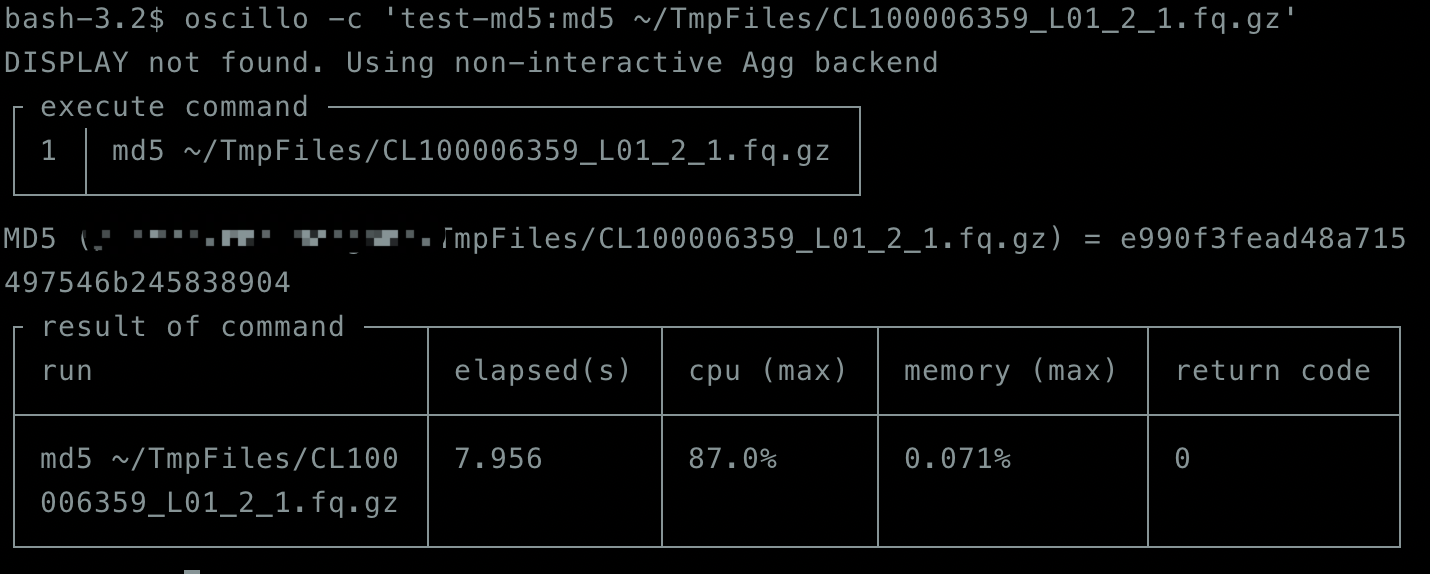
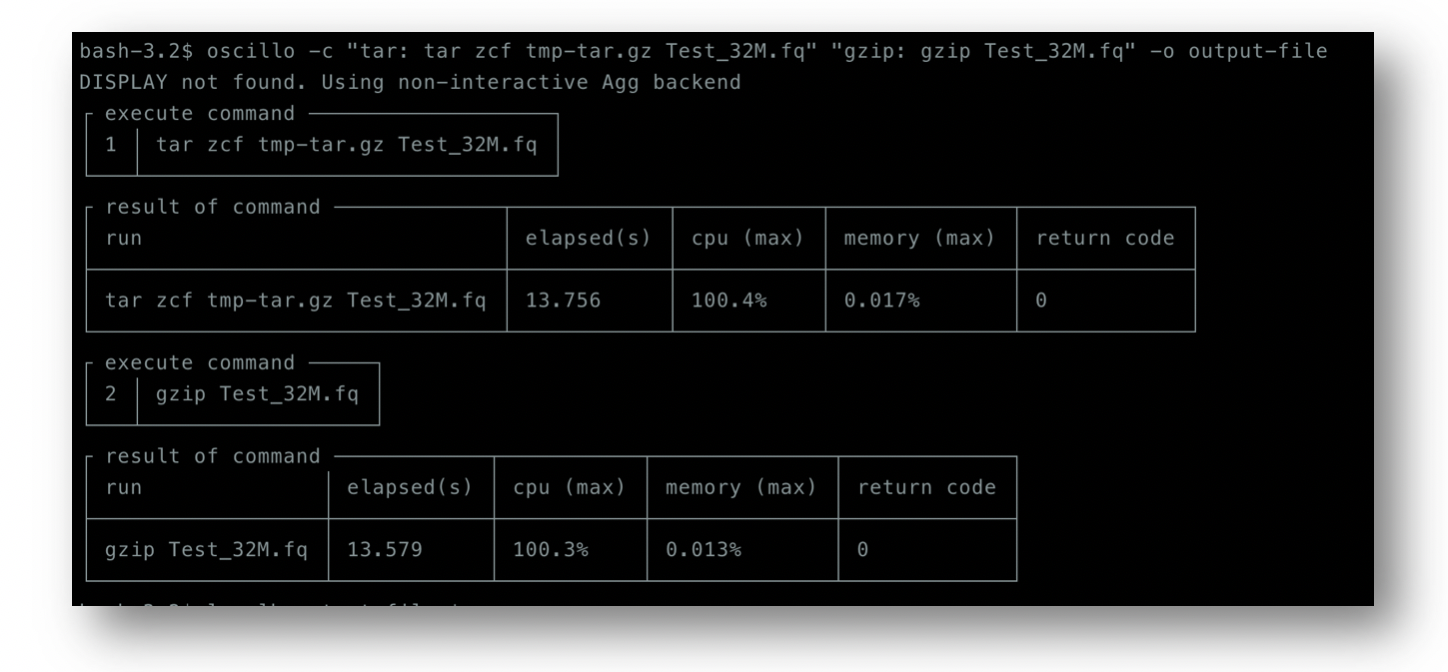
更新README及相关文件，重新打包以更新描述信息

diff --git a/setup.py b/setup.py
@@ -4,7 +4,7 @@ try:
 except ImportError:
     import distutils.core as setuptools
 
-__VERSION__ = '0.2.2'
+__VERSION__ = '0.2.3'
 
 with open("README.md", "r") as fh:
     long_description = fh.read()

diff --git a/README.md b/README.md
@@ -24,18 +24,24 @@ python setup.py install
 ## 使用方式 / Usage
 
 
-* 通过命令行参数启动 / Boot start by command line parameter
+### 通过命令行参数启动 / Boot start by command line parameter
 
+命令行参数的格式是 `"<name>: <command [args]>"`：
+
+* `name`: 命令行的别名/id (任意字符串)，当`--commands/-c`参数指定多个命令时，该值将作为命令的唯一标识，不可重复
+* `command [args]`: 需要测试资源消耗的命令，比如 `gzip file.ext`
+
+示例如下，监控gzip压缩一个文件时耗费的cpu、memory和时间：
+ 
 ``` 
-oscillo -c 'test: echo "">1.txt&&md5 1.txt' -o 1.png
-
+oscillo -c 'gzip: gzip file.ext' -o output-file
 ```
 
 * -c 代表将执行一个linux cmd 命令。参数后面可以跟以空格隔开的多个参数
 
-* -o 结果输出文件
+* -o 结果输出文件:
 
-* 会在当前目录下生成一个log 文件。文本结构是json 格式. 数据结构如下
+命令执行完成后，会在当前目录下生成一个`<output-file>.log` 文件。文本结构是json 格式. 数据结构如下
 ```
 {
   "test": {
@@ -46,8 +52,23 @@ oscillo -c 'test: echo "">1.txt&&md5 1.txt' -o 1.png
 }
 
 ```
+同时会产生一个`<output-file>.png`文件，`<output-file>`由`-o`参数指定，默认值为`metrix`
 
-* 通过配置文件启动 / Boot start by config file
+如果想对比多个命令对资源的消耗，可以使用 `-c/--commands` 选项指定多条命令, e.g.:
+
+对比`gzip`和`tar`命令对资源的消耗：
+
+```shell
+oscillo -c 't1: gzip file.ext'  't2: tar czf target.tar.gz file1' -o output
+```
+
+在控制台上，`oscillo`会打印summary信息，其中包含命令的耗时、最大内存使用、最大cpu使用、退出码等，效果如下：
+
+![demo](https://raw.githubusercontent.com/raomuyang/cmd-oscillo/master/demo/metrix.log.png)
+
+![demo](https://raw.githubusercontent.com/raomuyang/cmd-oscillo/master/demo/compare-gzip.png)
+
+### 通过配置文件启动 / Boot start by config file
 
 当命令很长或者很多时，可以使用配置文件启动
 Whe the commands is too many, you can boot start by config file
